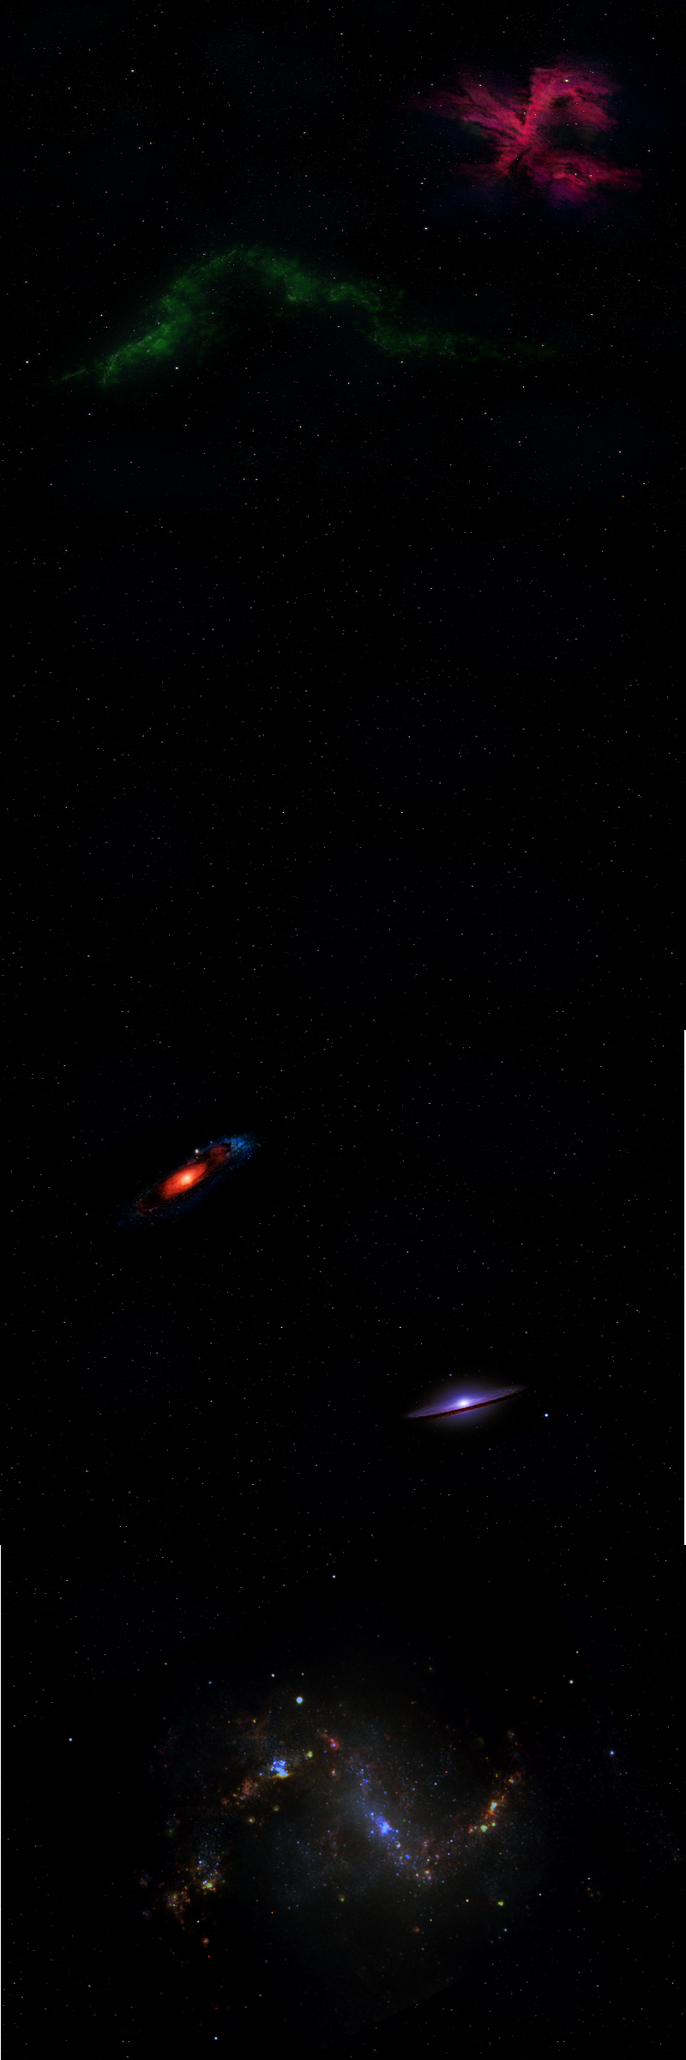
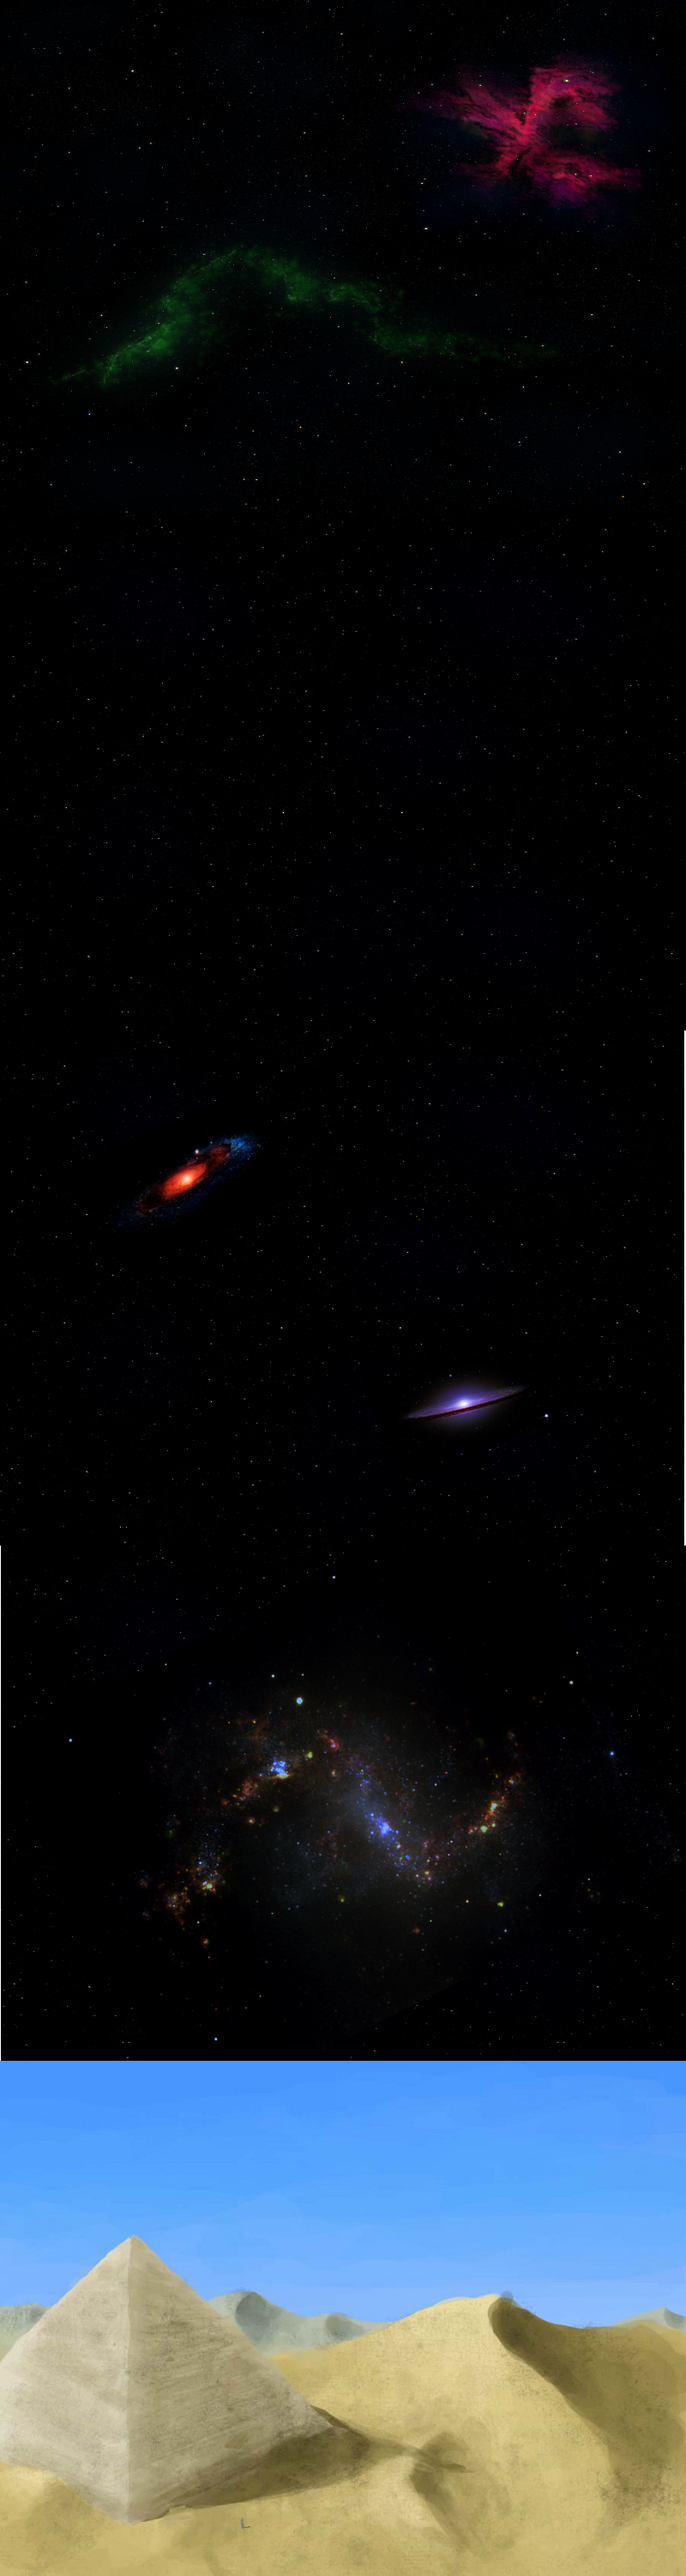
New prototype level added, some fixes Issue Number:
Description:
    New features:

Benchmarks:
    Developed with the following benchmarks:

Todo:

diff --git a/Resources/maps/Backgrounds.tsx b/Resources/maps/Backgrounds.tsx
@@ -21,4 +21,9 @@
    <property name="img_path" value="Resources/gfx/space-4.png"/>
   </properties>
  </tile>
+ <tile id="4">
+  <properties>
+   <property name="img_path" value="Resources/gfx/desert-1.png"/>
+  </properties>
+ </tile>
 </tileset>
